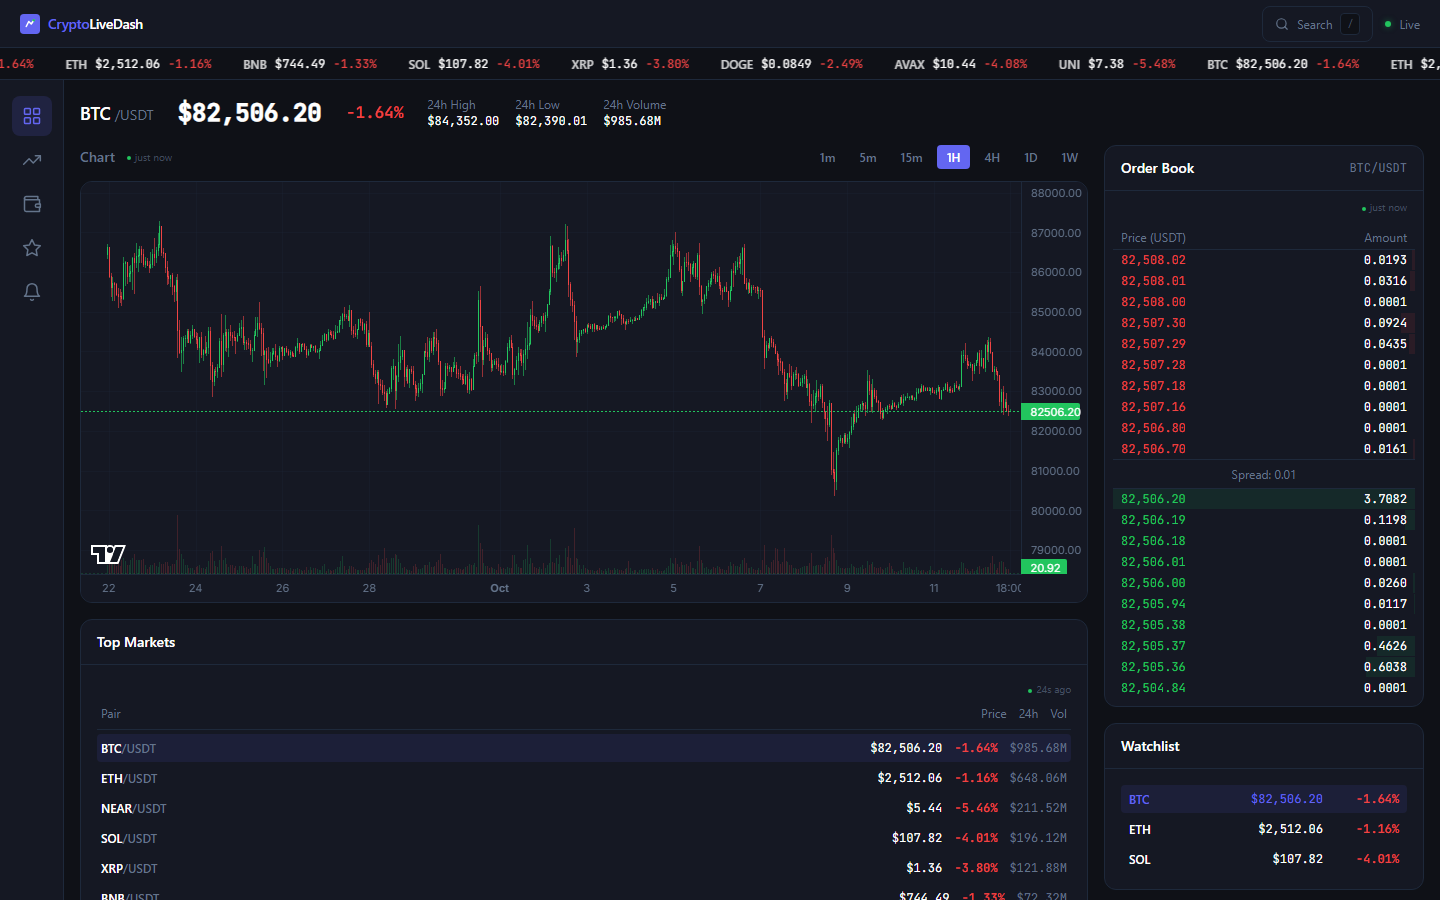
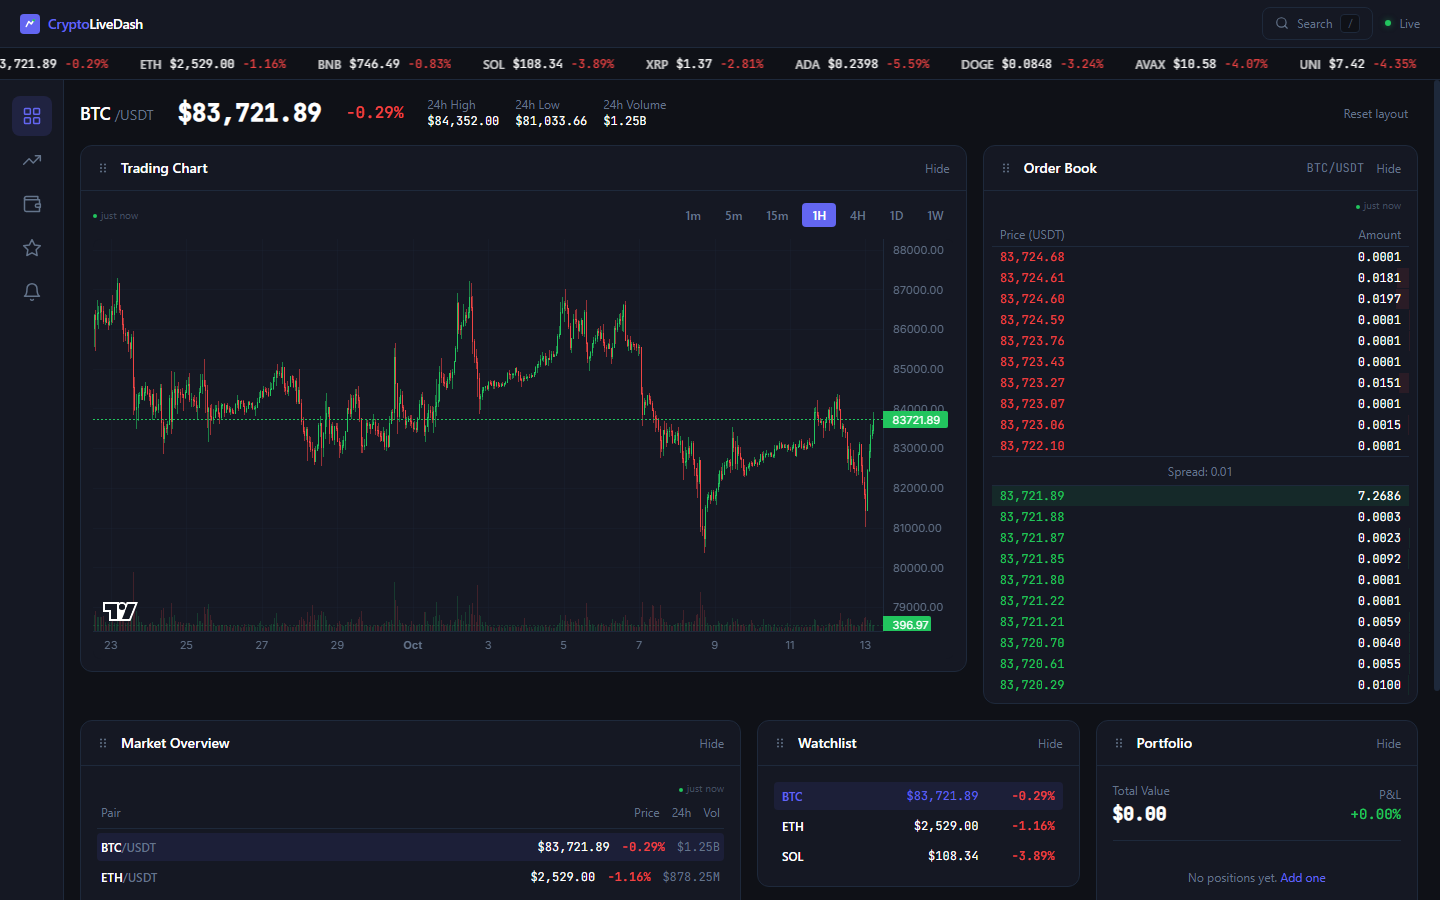
docs: update the README for the new features, stack and tests
- Describe the keyboard drag and drop, hiding and resetting widgets, alerts
  that fire on any page with pause and resume, and the pre-filled buy price.
- Stack table with current majors. Forms use React Hook Form's own
  validation; Zod checks the persisted state, which the table now says.
- Testing: 177 tests, what each area covers, the coverage figures and the CI
  thresholds, replacing the note that screens were untested.
- Two more technical challenges: alerts tied to one page, and keyboard
  reordering on a grid of mixed widths.
- A fresh screenshot of the dashboard with its widget headers.

diff --git a/README.md b/README.md
@@ -2,7 +2,7 @@
 
 Real-time cryptocurrency trading dashboard with live Binance market data, TradingView candlestick charts, an order book, portfolio tracking, price alerts and drag-and-drop widgets.
 
-![CryptoLiveDash: live BTC/USDT chart, order book, top markets and watchlist](./docs/preview.png)
+![CryptoLiveDash: live BTC/USDT chart, order book, market overview, watchlist and portfolio widgets](./docs/preview.png)
 
 ---
 
@@ -47,30 +47,33 @@ CryptoLiveDash is a React dashboard that streams live market data from Binance o
 
 - **Live WebSocket streams** for all-market tickers (`!miniTicker@arr`) and per-symbol candles, with capped reconnects and a clean teardown when the symbol or timeframe changes
 - **Redux Toolkit + RTK Query** for application state and cached REST data
-- **TradingView Lightweight Charts**, with live candles applied through `update()` instead of re-setting the series
-- **Drag-and-drop dashboard** with @dnd-kit
+- **Price alerts checked on every live price update** by a Redux listener middleware, whichever page is open, with browser notifications when allowed
+- **TradingView Lightweight Charts**, with live candles applied through `update()` instead of re-setting the series, and sized to its container by a `ResizeObserver`
+- **Drag-and-drop dashboard** with @dnd-kit, by mouse or keyboard; the layout is saved
 - **Route-level code splitting** with `React.lazy`
 - **Validated persistence**: portfolio, watchlist, alerts and layout are saved to localStorage and checked with Zod on load, so corrupted or tampered data falls back safely
-- **Browser notifications** when a price alert triggers
-- **83 automated tests** with Vitest and React Testing Library (see [Testing](#testing))
-- **TypeScript** in strict mode, feature-based folder structure
+- **177 automated tests** with Vitest and React Testing Library, and coverage gates in CI (see [Testing](#testing))
+- **TypeScript** in strict mode, ESLint with the React Compiler rules, feature-based folder structure
 
 ## Tech Stack
 
-| Category  | Technology                     |
-| --------- | ------------------------------ |
-| Framework | React 19 + TypeScript          |
-| Build     | Vite                           |
-| State     | Redux Toolkit + RTK Query      |
-| Charts    | TradingView Lightweight Charts |
-| Styling   | TailwindCSS                    |
-| DnD       | @dnd-kit                       |
-| Forms     | React Hook Form + Zod          |
-| Routing   | React Router v7                |
-| Testing   | Vitest + React Testing Library |
-| CI        | GitHub Actions                 |
+| Category   | Technology                                 |
+| ---------- | ------------------------------------------ |
+| Framework  | React 19 + TypeScript 6                    |
+| Build      | Vite 8 (Rolldown)                          |
+| State      | Redux Toolkit + RTK Query                  |
+| Charts     | TradingView Lightweight Charts 5           |
+| Styling    | Tailwind CSS 4                             |
+| DnD        | @dnd-kit                                   |
+| Forms      | React Hook Form                            |
+| Validation | Zod 4 (`zod/mini`) for the persisted state |
+| Routing    | React Router 7                             |
+| Testing    | Vitest 5 + React Testing Library           |
+| CI         | GitHub Actions                             |
 
 ## Quick Start
+
+Requires Node.js 22 or newer.
 
 ```bash
 git clone https://github.com/arsen-react/CryptoLiveDash.git
@@ -85,9 +88,9 @@ Open [http://localhost:3000](http://localhost:3000) — no API keys needed.
 
 ### Dashboard
 
-- Drag-and-drop widget grid with persistent layout
-- Customizable widget arrangement
-- Reset to default layout
+- Drag a widget by its handle with the mouse, or with the keyboard: Space to lift, arrow keys to move one place earlier or later, Space to drop
+- Hide widgets and bring them back, or reset to the default layout
+- The layout is saved in localStorage
 
 ### Trading Chart
 
@@ -104,7 +107,7 @@ Open [http://localhost:3000](http://localhost:3000) — no API keys needed.
 
 ### Portfolio Tracker
 
-- Add/remove positions
+- Add positions, with the buy price pre-filled from the live price
 - Real-time P&L calculation
 - Total portfolio value and cost basis
 
@@ -116,24 +119,28 @@ Open [http://localhost:3000](http://localhost:3000) — no API keys needed.
 ### Price Alerts
 
 - Set above/below price targets
-- Browser notifications on trigger
+- Alerts fire on any page as soon as the live price reaches them
+- Pause and resume alerts
+- Browser notifications on trigger, when the browser allows them
 
 ## Testing
 
 ```bash
-npm run test           # run all 83 tests
-npm run test:coverage  # with a coverage report
+npm run test           # run all 177 tests
+npm run test:coverage  # with the coverage report and thresholds
+npm run check          # format check, lint, tests with coverage and build, as CI runs them
 ```
 
-The suite covers the state, data and hook layers. Feature screens (chart, order book, portfolio pages) are not covered yet.
+| Area                | What is tested                                                                                        |
+| ------------------- | ----------------------------------------------------------------------------------------------------- |
+| Redux slices        | add, update, remove, toggles, persistence, tampered storage, the alerts listener                      |
+| RTK Query endpoints | USDT filtering, kline parsing, order-book mapping, request URLs                                       |
+| Hooks               | WebSocket lifecycle, reconnects, latest-callback handling, debounce, localStorage                     |
+| Screens             | dashboard (including keyboard drag and drop), chart, market, order book, portfolio, watchlist, alerts |
+| Shell               | header search, sidebar, live-status reporting, every route, the app booting                           |
+| Utilities           | formatters, ticker mapping, class merging, Zod-validated storage                                      |
 
-| Area                 | What is tested                                                   | Line coverage |
-| -------------------- | ---------------------------------------------------------------- | ------------- |
-| Redux slices (all 6) | add, update, remove, toggles, persistence, tampered storage      | 100%          |
-| RTK Query endpoints  | USDT filtering, kline parsing, order-book mapping, request URLs  | 100%          |
-| Hooks                | WebSocket lifecycle and reconnects, debounce, localStorage       | 100%          |
-| Utilities            | formatters, ticker mapping, class merging, Zod-validated storage | 92–100%       |
-| Shared components    | Modal, ErrorBoundary, PriceChange, LastUpdated                   | 100%          |
+Coverage is about 97% of lines and 91% of branches. CI fails below 95% of statements and lines or 88% of branches and functions.
 
 ## Technical Challenges & Solutions
 
@@ -149,11 +156,23 @@ Closing a socket during cleanup triggered its own reconnect logic, so switching 
 
 **Solution**: The hook now marks a socket as disposed on cleanup, cancels the pending reconnect and ignores late events. Two regression tests reproduce the original bug.
 
-### Challenge 3: Chart performance with 500+ candles
+### Challenge 3: Price alerts that only fired on one page
+
+Alerts were checked inside the Alerts page, so a target reached while the user watched the dashboard went unnoticed.
+
+**Solution**: A Redux listener middleware checks the active alerts on every live price update, independent of the UI. Tests dispatch price updates to a store with no page mounted.
+
+### Challenge 4: Keyboard reordering on a grid of mixed widths
+
+dnd-kit's default keyboard handling moves a widget to the nearest one in the arrow's direction, which on a 12-column grid with wide and narrow widgets jumped to the next row.
+
+**Solution**: A custom coordinate getter moves the widget one place earlier or later in the saved order. The test reproduces the real grid geometry.
+
+### Challenge 5: Chart performance with 500+ candles
 
 **Solution**: TradingView Lightweight Charts renders on canvas, and live candles are applied with `update()` instead of `setData()`, so a new tick never redraws the whole series.
 
-### Challenge 4: Persisting state safely
+### Challenge 6: Persisting state safely
 
 **Solution**: Every slice loads its saved state through a Zod schema. Invalid or tampered data falls back to defaults, and a full storage quota logs a warning instead of crashing the app.
 
@@ -165,26 +184,28 @@ npm run build          # Type-check and production build
 npm run preview        # Preview production build
 npm run lint           # ESLint check
 npm run format         # Prettier format
+npm run format:check   # Prettier check
 npm run test           # Run tests
 npm run test:watch     # Watch mode
-npm run test:coverage  # Tests with coverage report
+npm run test:coverage  # Tests with coverage report and thresholds
+npm run check          # Everything CI runs
 ```
 
 ## Project Structure
 
 ```
 src/
-├── app/              # Store, router, App entry
+├── app/              # Store, routes, App entry
 ├── features/         # Feature modules (dashboard, market, chart, etc.)
 │   ├── dashboard/    # Drag-and-drop widget grid
 │   ├── market/       # Market data, ticker, order book
 │   ├── chart/        # TradingView chart integration
 │   ├── portfolio/    # Portfolio tracking
 │   ├── watchlist/    # Coin watchlist
-│   └── alerts/       # Price alerts
+│   └── alerts/       # Price alerts and the alert listener
 ├── shared/           # Reusable hooks, components, utils, types
-├── styles/           # Global styles
-└── test/             # Vitest setup
+├── styles/           # Tailwind theme and global styles
+└── test/             # Vitest setup, render helper, fixtures
 ```
 
 ## License
